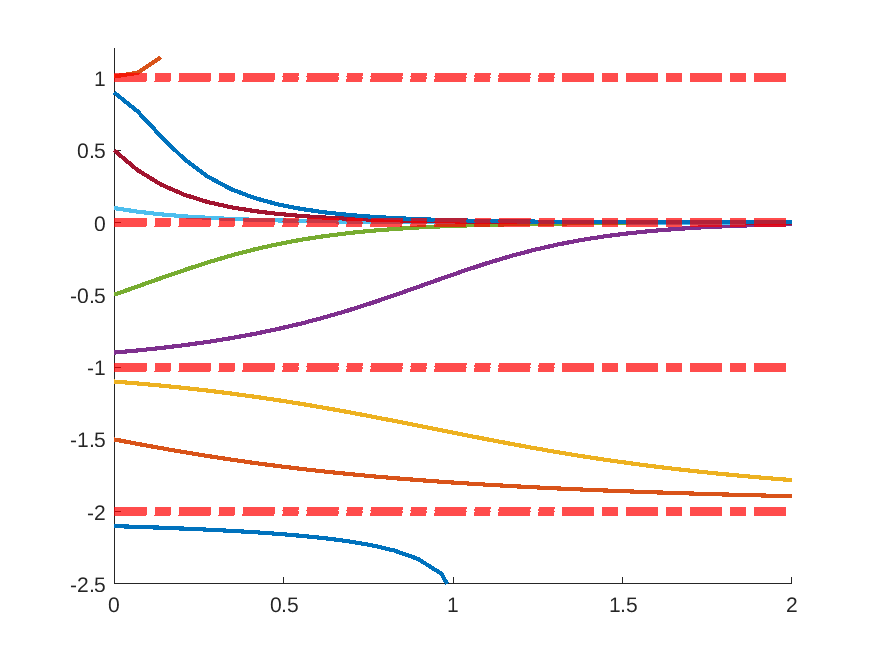
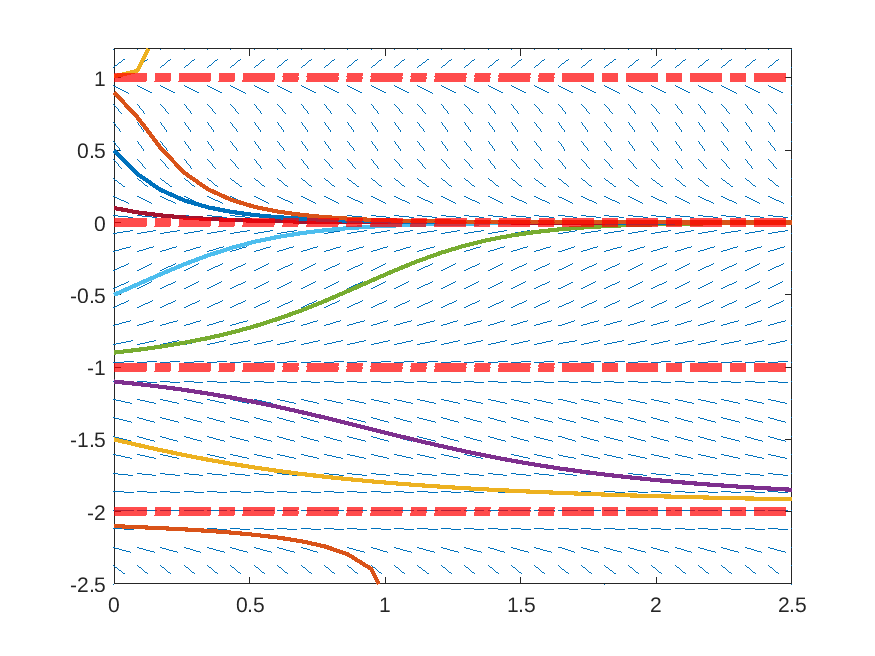
updated

diff --git a/_topics/matlab/topic_004_autonomous.m b/_topics/matlab/topic_004_autonomous.m
@@ -7,6 +7,8 @@ ymin =  0.0;    % minimum y value
 ymax =  2.0;    % maximum y value
 
 
+% create nx-by-ny matrices whose entries are the x and y values
+[X, Y] = meshgrid(linspace(xmin,xmax,nx),linspace(ymin,ymax,ny));
 
 
 % plot the logistic equation phase diagram
@@ -14,6 +16,13 @@ k = 2;   % growth rate
 C = 1;   % carrying capacity
 t     = linspace(xmin,xmax,nx);
 inits = [0.1,0.5,1.1,1.5,2.0];  % starting points
+
+fun1 = @(x, y) (k*y.*(1-y/C));
+DYDX = fun1(X, Y);
+DY = DYDX ./ sqrt(1 + DYDX.^2);
+DX = ones(length(DY)) ./ sqrt(1 + DYDX.^2);
+h = quiver(X, Y, DX, DY, 0.5);
+set(h, "maxheadsize", 0.0);
 
 hold on
 for y0 = inits
@@ -35,20 +44,32 @@ yline(1,'r-.','LineWidth',5)
 saveas(gcf,'../fig/004-logistic.png')
 
 
+% clear the figure window
+clf 
 
-% plot some integral curves of the latter slope field
+% update coordinates for next figure
+xmin = 0;
+xmax = 2.5;
+ymin = -2.5;
+ymax =  1.2;
+
+[X, Y] = meshgrid(linspace(xmin,xmax,nx),linspace(ymin,ymax,ny));
+
+% plot the second phase diagram
+fun2 = @(x,y)((y-1).*y.*(y+1).*(y+2).*(y+2))
+DYDX = fun2(X, Y);
+DY = DYDX ./ sqrt(1 + DYDX.^2);
+DX = ones(length(DY)) ./ sqrt(1 + DYDX.^2);
+h = quiver(X, Y, DX, DY, 0.5);
+set(h, "maxheadsize", 0.0);
 
 equilib = [-2,-1,0,1]
-
-clf 
-hold on
 
 ystarts = [-2.1,-1.5,-1.1,-0.9,-0.5,0.1,0.5,0.9,1.01]
 
 ncurves = length(ystarts)
 
-fun1 = @(x,y)((y-1)*y*(y+1)*(y+2)*(y+2))
-
+hold on
 for m = 1:ncurves
   Z = zeros([1,nx]);
   Z(1) = ystarts(m);
@@ -60,7 +81,7 @@ for m = 1:ncurves
     foo = Z(k-1);
     for j = 1:nsteps
       x = x + dx/nsteps;
-      foo = foo + (dx/nsteps)*fun1(x,foo);
+      foo = foo + (dx/nsteps)*fun2(x,foo);
     end
     Z(k) = foo;
   end
@@ -71,7 +92,8 @@ for e = equilib
   yline(e,'r-.','LineWidth',4)
 end
 
-ylim([-2.5,1.2])
+xlim([xmin,xmax])
+ylim([ymin,ymax])
   
 saveas(gcf,'../fig/004-phase.png')
 
